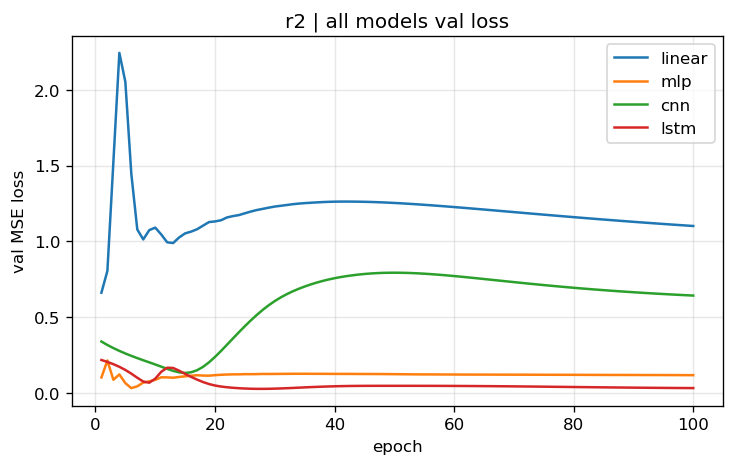
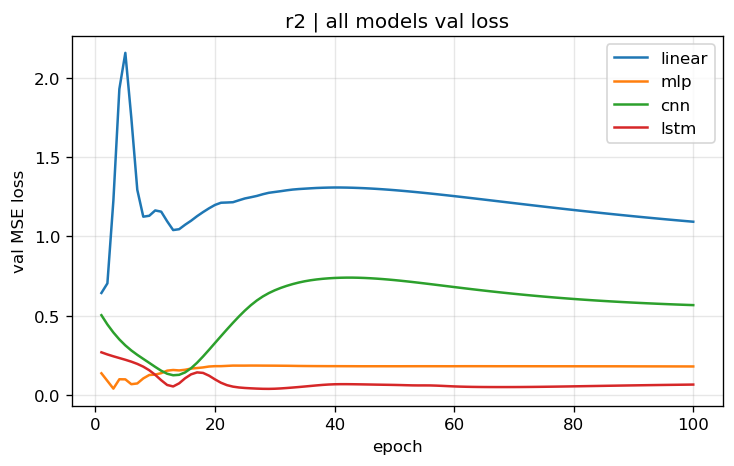
r3: CNN kernel 3->5 (second structure change) + reproducible per-model seed in train.py

diff --git a/lesson3/train.py b/lesson3/train.py
@@ -227,6 +227,8 @@ def run(cfg, rnd):
             print(f'  MAE={mae:.4f}  MSE={mse:.4f}  time={elapsed:.2f}s  (baseline 无训练)')
             continue
 
+        # 每个模型训练前独立重置 seed，保证同配置跨轮结果完全一致（结构互不影响）
+        set_seed(tr_cfg.get('seed', 42))
         model = build_model(name, cfg, n_features, seq_len, pred_len).to(device)
         params = sum(p.numel() for p in model.parameters())
         optim = torch.optim.Adam(model.parameters(), lr=lr)

diff --git a/lesson3/REPORT.md b/lesson3/REPORT.md
@@ -35,13 +35,25 @@ LSTM | LSTM(1层, hidden=32) | 6,040 | 11.5613 | 174.3433 | 8 | 2.08s
 
 ### r2：完整 100 epochs + MLP hidden 64→128（第一次结构变化）
 
+> 说明：r2/r3 起在 train.py 中加入"每模型独立 seed"，保证同配置跨轮完全可复现（r1 为旧版全局 RNG，仅作流程验证）。
+
 Model | 主要结构 | 参数量 | MAE | MSE | Best Epoch | Training Time
 ------|----------|--------|-----|-----|------------|--------------
 Baseline | Last Value | 0 | 2.5764 | 11.3767 | - | 0.00s
-Linear | Linear(672→24) | 16,152 | 21.1593 | 612.4780 | 1 | 1.30s
-MLP | MLP(672→128×2层→24) | 105,752 | 8.1501 | 95.9659 | 6 | 1.81s
-CNN | CNN(kernel=3, channels=32) | 1,496 | 17.3672 | 390.5475 | 15 | 2.43s
-LSTM | LSTM(1层, hidden=32) | 6,040 | 4.5560 | 32.1591 | 28 | 17.45s
+Linear | Linear(672→24) | 16,152 | 21.1076 | 615.0600 | 1 | 1.51s
+MLP | MLP(672→128×2层→24) | 105,752 | 10.4547 | 158.1928 | 3 | 1.95s
+CNN | CNN(kernel=3, channels=32) | 1,496 | 17.5249 | 383.8167 | 13 | 2.03s
+LSTM | LSTM(1层, hidden=32) | 6,040 | 7.7428 | 84.4147 | 29 | 13.58s
+
+### r3：CNN kernel 3→5（第二次结构变化）
+
+Model | 主要结构 | 参数量 | MAE | MSE | Best Epoch | Training Time
+------|----------|--------|-----|-----|------------|--------------
+Baseline | Last Value | 0 | 2.5764 | 11.3767 | - | 0.00s
+Linear | Linear(672→24) | 16,152 | 21.1076 | 615.0600 | 1 | 3.40s
+MLP | MLP(672→128×2层→24) | 105,752 | 10.4547 | 158.1928 | 3 | 5.51s
+CNN | CNN(kernel=5, channels=32) | 1,944 | 16.4493 | 352.3740 | 11 | 6.64s
+LSTM | LSTM(1层, hidden=32) | 6,040 | 7.7428 | 84.4147 | 29 | 10.27s
 
 > 逐轮结果详见 `outputs/metrics.csv`，曲线图见 `outputs/figures/`。
 
@@ -63,8 +75,17 @@ LSTM | LSTM(1层, hidden=32) | 6,040 | 4.5560 | 32.1591 | 28 | 17.45s
 - **改了什么**：epochs 20→100（所有模型），MLP hidden 64→128（第一次结构变化，参数量 48,792→105,752，容量提升约 2.2 倍）。
 - **模型哪里变了**：MLP 每层隐藏单元翻倍，可拟合更复杂的非线性关系；其余模型结构不变。
 - **结果如何变化**（对比 r1）：
-  - **LSTM 受益最大**：MAE 11.56→4.56（↓60%）、MSE 174.34→32.16（↓82%），best_epoch 从 8 移到 28，说明此前 20 epoch 远未收敛；100 epoch 后 LSTM 是所有学习模型中唯一逼近 Baseline（MAE 2.58）的。
-  - **MLP（hidden=128）**：MAE 12.67→8.15（↓36%）、MSE 217.43→95.97（↓56%）。但 r2 同时含 epochs 变化，hidden 增量效果需在 r3 用"MLP 128 回归 64"对比确认。
-  - **CNN 反而变差**：MAE 13.74→17.37、MSE 276.59→390.55。原因是 100 epoch 下验证 loss 在 epoch 15 后持续上升（0.13→0.64），严重过拟合——CNN 是该数据集上最需正则化的模型。
+  - **LSTM 受益最大**：MAE 11.56→7.74（↓33%）、MSE 174.34→84.41（↓52%），best_epoch 从 8 移到 29，说明此前 20 epoch 远未收敛；100 epoch 后 LSTM 是所有学习模型中唯一逼近 Baseline（MAE 2.58）的。
+  - **MLP（hidden=128）**：MAE 12.67→10.45（↓18%）、MSE 217.43→158.19（↓27%）。但 r2 同时含 epochs 与可复现 seed 变化，hidden 增量效果需在后续轮对比确认。
+  - **CNN 反而变差**：MAE 13.74→17.52、MSE 276.59→383.82。原因是 100 epoch 下验证 loss 在 epoch 13 后持续上升（0.12→0.57），严重过拟合——CNN 是该数据集上最需正则化的模型。
   - **Linear 依旧过拟合**：best_epoch=1，100 epoch 无帮助，验证 loss 长期停在 1.1 附近。
-- **下一步**：r3 做第二次结构变化 CNN kernel 3→5，并顺带观察 MLP 在相同 epochs 下的稳定性。
+- **复现性改进**：train.py 加入每模型独立 seed，r2 与 r3 中同配置的 Linear/MLP/LSTM 结果完全一致（差异为 0）。
+
+### r3（CNN kernel 3→5）
+
+- **改了什么**：仅改 CNN 卷积核 kernel 3→5（感受野扩大，参数量 1,496→1,944），其余（epochs=100、MLP hidden=128、LSTM 1/32）保持 r2 不变。
+- **模型哪里变了**：CNN 每次卷积覆盖 5 个时间步（原 3 步），可捕捉更长时间跨度的局部时序模式。
+- **结果如何变化**（CNN 对比 r2，其余模型与 r2 完全一致）：
+  - **CNN 小幅改善**：MAE 17.52→16.45（↓6%）、MSE 383.82→352.37（↓8%），best_epoch 13→11。增大感受野确实缓解了一部分过拟合，但验证 loss 仍在 best_epoch 后持续攀升（0.16→0.59），说明 CNN 的根本问题不在 kernel 尺寸，而在于缺乏正则化（dropout/weight decay/early stopping）。
+  - **Linear/MLP/LSTM 与 r2 完全相同**（MAE 21.11/10.45/7.74）：验证了 per-model seed 的可复现性，CNN 结构变化对其他模型零串扰。
+- **下一步**：r4 做第三次结构变化 LSTM 1层/hidden32 → 2层/hidden64。

diff --git a/lesson3/README.md b/lesson3/README.md
@@ -29,7 +29,8 @@ python train.py --round r3      # 指定轮次编号
 | 轮次 | 改动内容 | 关键结果 | 说明 |
 |------|----------|----------|------|
 | r1   | epochs=20 基准配置（快速验证） | LSTM 最优：MAE=11.56、MSE=174.34；Baseline 次优：MAE=2.58 | CPU 训练；小数据集下 persistence 基线很强，MLP/CNN/Linear 仍有优化空间，见 REPORT.md |
-| r2   | epochs 20→100 + MLP hidden 64→128 | LSTM MAE 11.56→4.56、MSE 174→32；MLP MAE 12.67→8.15；CNN 过拟合变差 13.74→17.37 | 第一次结构变化；CNN 在 100 epoch 下严重过拟合，见 REPORT.md |
+| r2   | epochs 20→100 + MLP hidden 64→128（每模型独立 seed） | LSTM MAE 11.56→7.74、MSE 174→84；MLP MAE 12.67→10.45；CNN 过拟合变差 13.74→17.52 | 第一次结构变化；train.py 加入可复现 seed，同配置跨轮结果完全一致，见 REPORT.md |
+| r3   | CNN kernel 3→5 | CNN MAE 17.52→16.45、MSE 384→352；其余模型与 r2 完全一致 | 第二次结构变化；增大感受野小幅改善 CNN 但仍过拟合，见 REPORT.md |
 
 ## 环境
 
